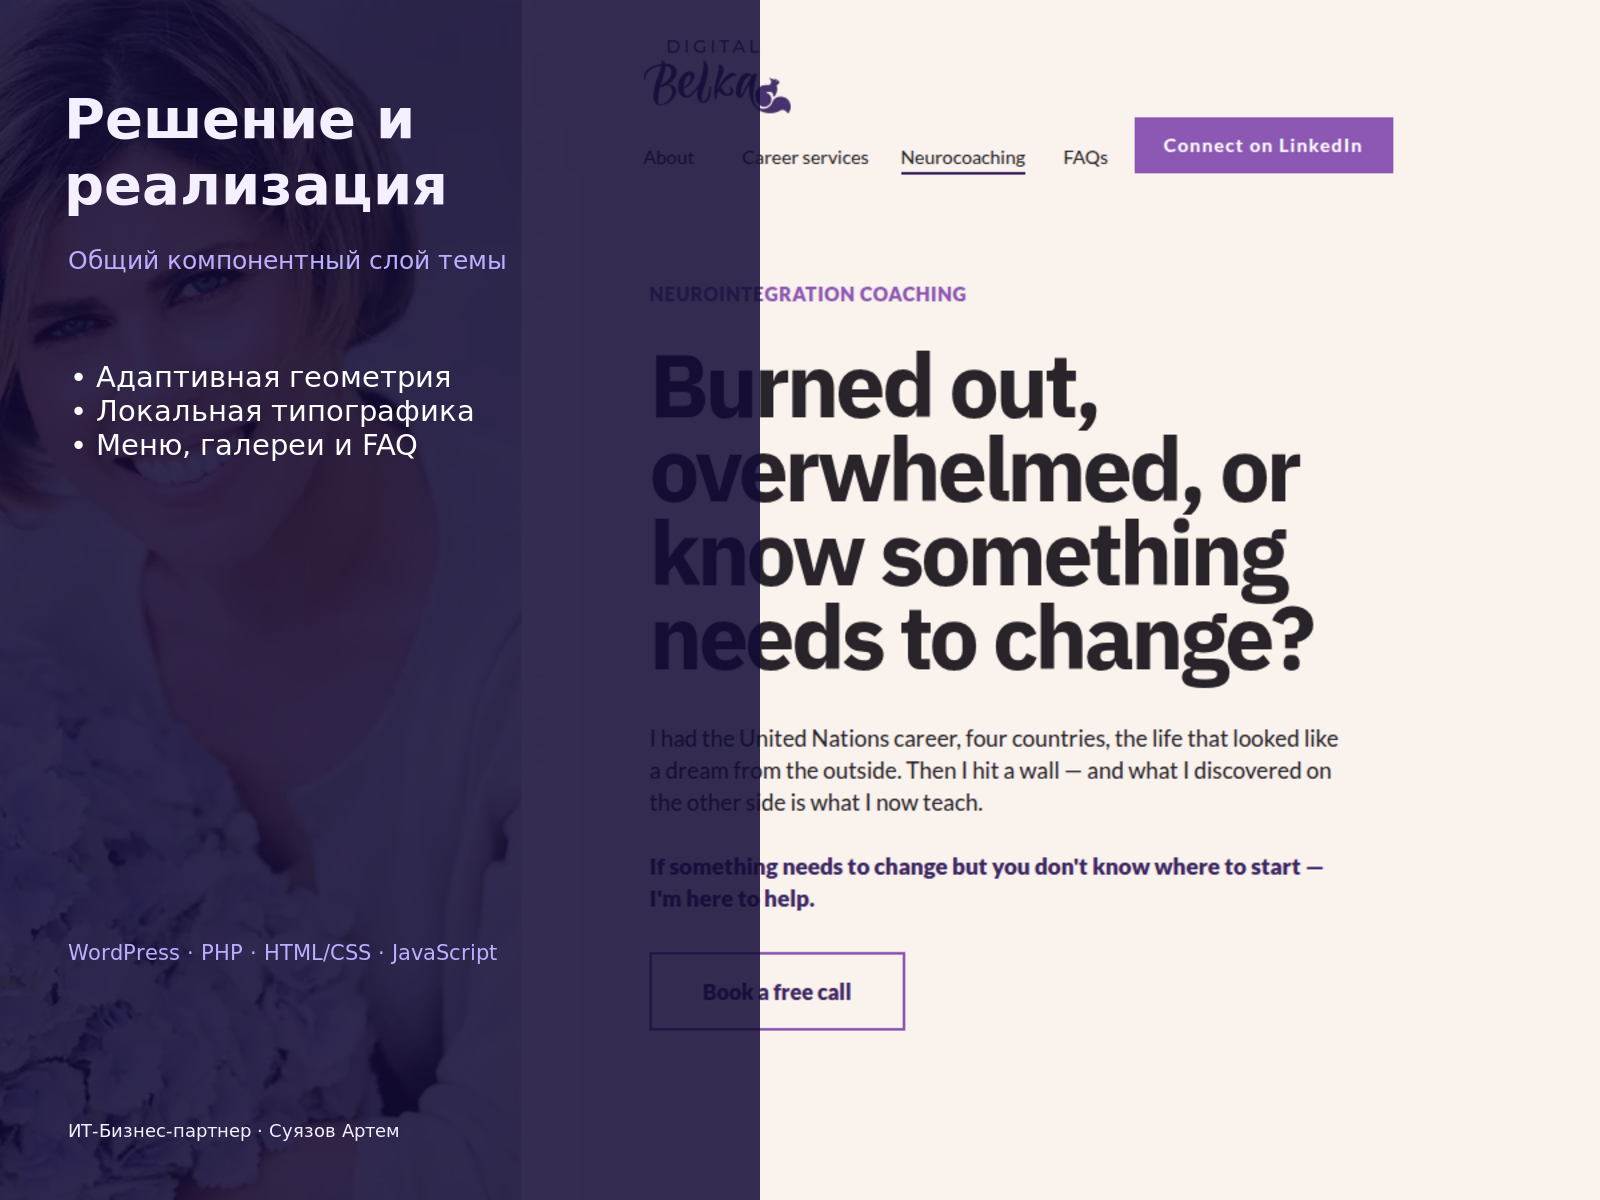
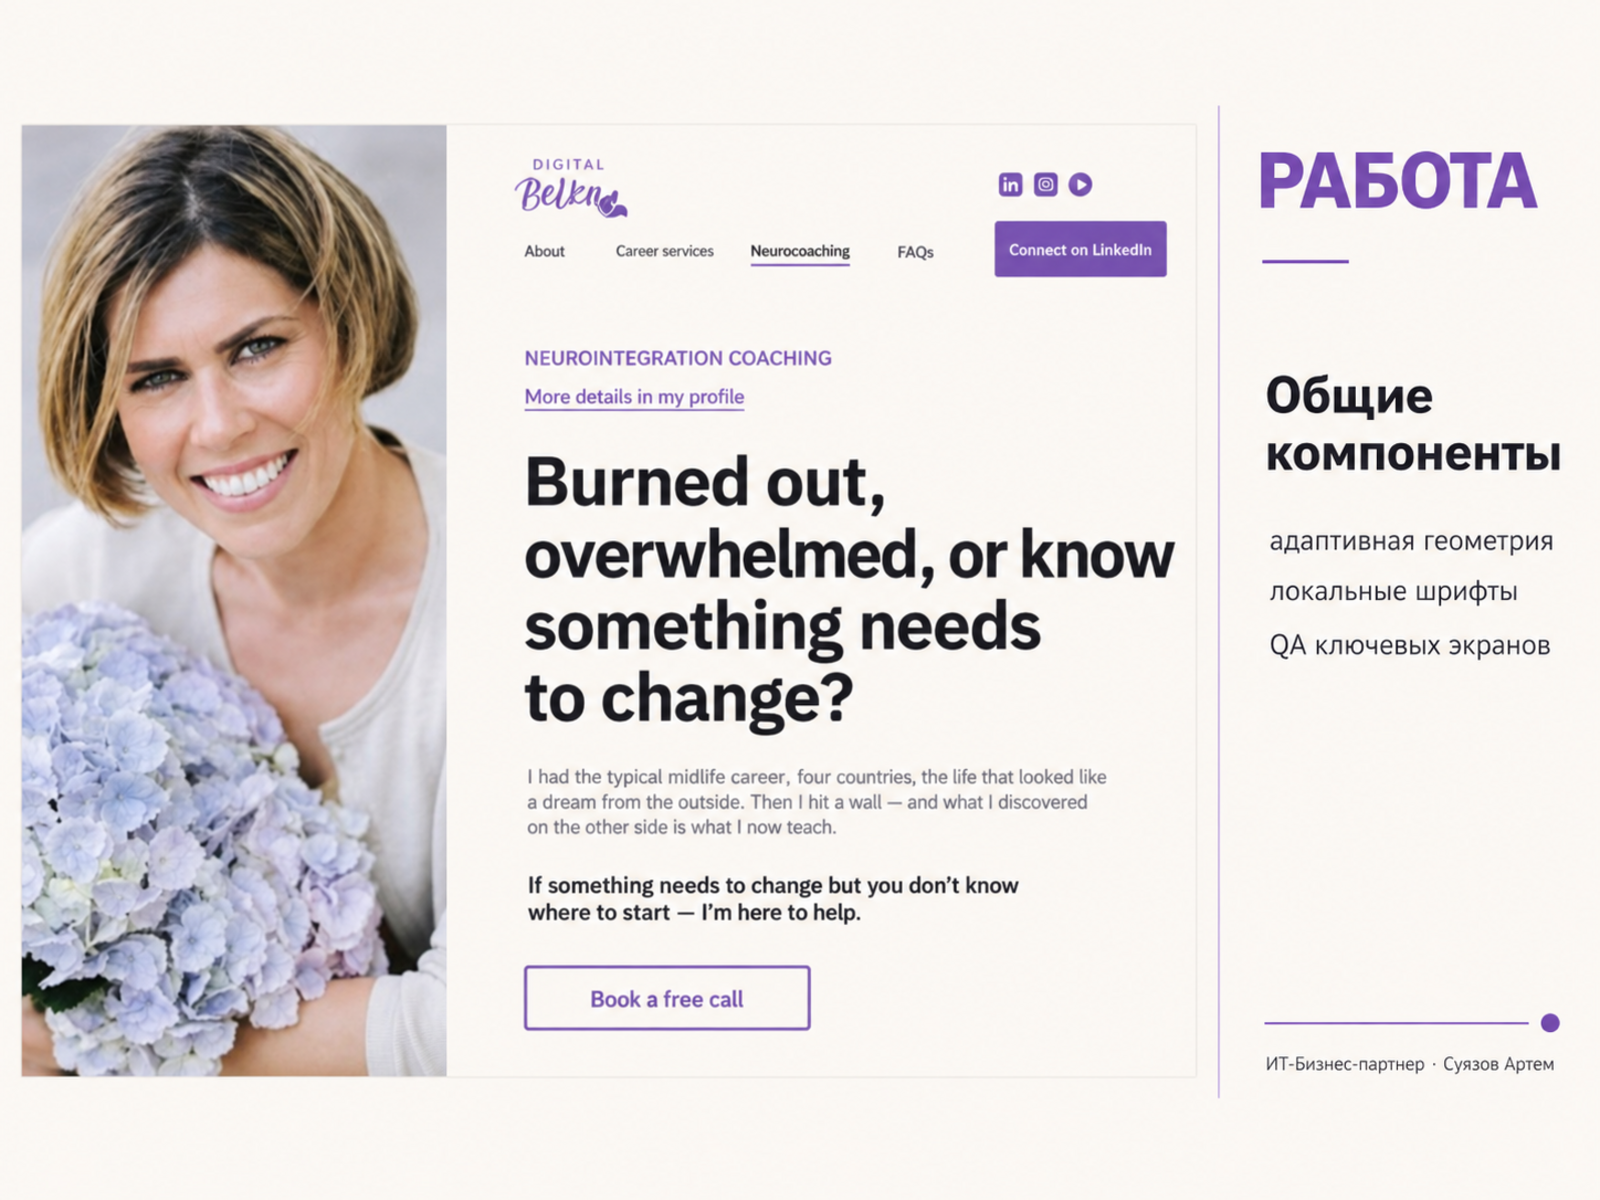
docs: rebuild Digital Belka portfolio visuals

diff --git a/docs/portfolio-case/digital-belka-neurocoaching/case.md b/docs/portfolio-case/digital-belka-neurocoaching/case.md
@@ -2,7 +2,7 @@
 
 ## Статус пакета
 
-Подготовлено для review владельцем. Пакет не опубликован и не импортирован в Portfolio.
+Пакет принят владельцем для открытой публикации и подготовлен к обновлению существующей страницы Portfolio.
 
 ## Карточка проекта
 
@@ -68,23 +68,27 @@ WordPress оставался CMS сайта и источником сущест
 
 ## Короткое описание для AFFiNE
 
-Подготовлен и проверен пакет работ по действующему WordPress-сайту Neurocoaching: адаптивная корректировка ключевых маршрутов, сохранение общих компонентов интерфейса, сокращение части исторических публичных ресурсов и staging/production QA в рамках согласованных релизов. Изменения не затрагивали WordPress core, плагины, DNS, хостинг или юридический контент. Последний подтверждённый релиз — 1.0.20 от 2026-09-04. Пакет ожидает owner acceptance и не импортирован в Portfolio.
+Подготовлен и проверен пакет работ по действующему WordPress-сайту Neurocoaching: адаптивная корректировка ключевых маршрутов, сохранение общих компонентов интерфейса, сокращение части исторических публичных ресурсов и staging/production QA в рамках согласованных релизов. Изменения не затрагивали WordPress core, плагины, DNS, хостинг или юридический контент. Последний подтверждённый релиз — 1.0.20 от 2026-09-04. Владелец принял пакет для открытой публикации.
 
 ## Заголовок для Workzilla
 
 WordPress-сайт Neurocoaching: адаптивная доработка, оптимизация загрузки и QA
 
-## Изображения
+## Матрица исходных экранов
 
-- `00-cover.png` — подтверждённый desktop-скриншот страницы проекта.
-- `01-start.png` — подтверждённый мобильный проектный скриншот как визуальный контекст исходной задачи.
-- `02-work.png` — подтверждённый desktop-скриншот маршрута Neurocoaching.
-- `03-result.png` — подтверждённый desktop-скриншот маршрута Career services после QA.
+| Файл | Реальная страница / состояние | Что показывает | Основание |
+|---|---|---|---|
+| `00-cover.png` | About, desktop | Главную презентационную страницу и общий UI темы | `acceptance/visual/about-desktop-1440x900.png` |
+| `01-start.png` | Career services, desktop | Второй ключевой маршрут и единый компонентный слой | `acceptance/visual/career-desktop-1440x900.png` |
+| `02-work.png` | Neurocoaching, desktop | Третий ключевой маршрут, на котором выполнялись адаптивные правки | `acceptance/visual/neurocoaching-desktop-1440x900.png` |
+| `03-result.png` | Contact, mobile | Проверенное мобильное состояние формы и общего интерфейса | `docs/qa/full-mobile-20260904/evidence/contact-430.png` |
+
+Каждая итоговая инфографика построена на отдельном реальном скриншоте. Интерфейс остаётся главным содержанием кадра; подписи занимают вспомогательную область и не перекрывают ключевые элементы страницы. Административный интерфейс WordPress не включён: через него выполнялась доставка темы, но сама админка не была объектом разработки.
 
 ## Проверка фактов, секретов и PII
 
-Текст сверялся с актуальным проектным контекстом, merged PR и QA-материалами. В пакет не включены учётные данные, токены, cookies, приватные URL, внутренние IP, серверные пути, служебные идентификаторы, email или телефоны. Изображения созданы из уже находящихся в репозитории проектных скриншотов; они не содержат административных интерфейсов или секретов.
+Текст сверялся с актуальным проектным контекстом, merged PR и QA-материалами. В пакет не включены учётные данные, токены, cookies, приватные URL, внутренние IP, серверные пути, служебные идентификаторы, email или телефоны. Изображения созданы из четырёх разных подтверждённых проектных скриншотов; они не содержат административных интерфейсов или секретов.
 
-## Что нужно уточнить
+## Публикация
 
-Нет отдельного подтверждения на публичное использование названия Digital Belka, названия Neurocoaching, домена, фотографий, отзывов и иных клиентских данных, видимых на проектных скриншотах. До owner acceptance пакет нельзя публиковать или импортировать в Portfolio. Владелец должен подтвердить открытый или обезличенный режим публикации и перечень допустимых данных.
+Владелец принял кейс для открытой публикации. Отдельных уточнений по режиму публикации не осталось.

diff --git a/docs/PROJECT_CONTEXT.md b/docs/PROJECT_CONTEXT.md
@@ -1,9 +1,9 @@
 # Project Context
 
 <!-- bridge:project-context-current task=CODEX-TASK-BRIDGE-MINIMAL-I2492-86D047D70850 -->
-- Result: Подготовлен owner-review пакет кейса Digital Belka — Neurocoaching: полный текст, короткие версии и четыре изображения из подтверждённых проектных материалов; пакет не опубликован и не импортирован в Portfolio.
-- Current state: Материалы ожидают проверки владельцем разрешений на публичное использование названия, домена, фотографий и иных клиентских данных.
-- Next action: Владелец подтверждает допустимый режим публикации либо указывает, какие данные обезличить; после принятия пакет может пройти Portfolio intake.
+- Result: Пакет кейса Digital Belka — Neurocoaching принят владельцем для открытой публикации; четыре изображения переработаны по четырём разным реальным страницам проекта.
+- Current state: Текст, матрица исходных экранов и обновлённые инфографики готовы к синхронизации с существующей страницей Portfolio.
+- Next action: Обновить существующий AFFiNE-кейс без создания дубликата и проверить четыре нативных изображения.
 
 ## Identity
 
